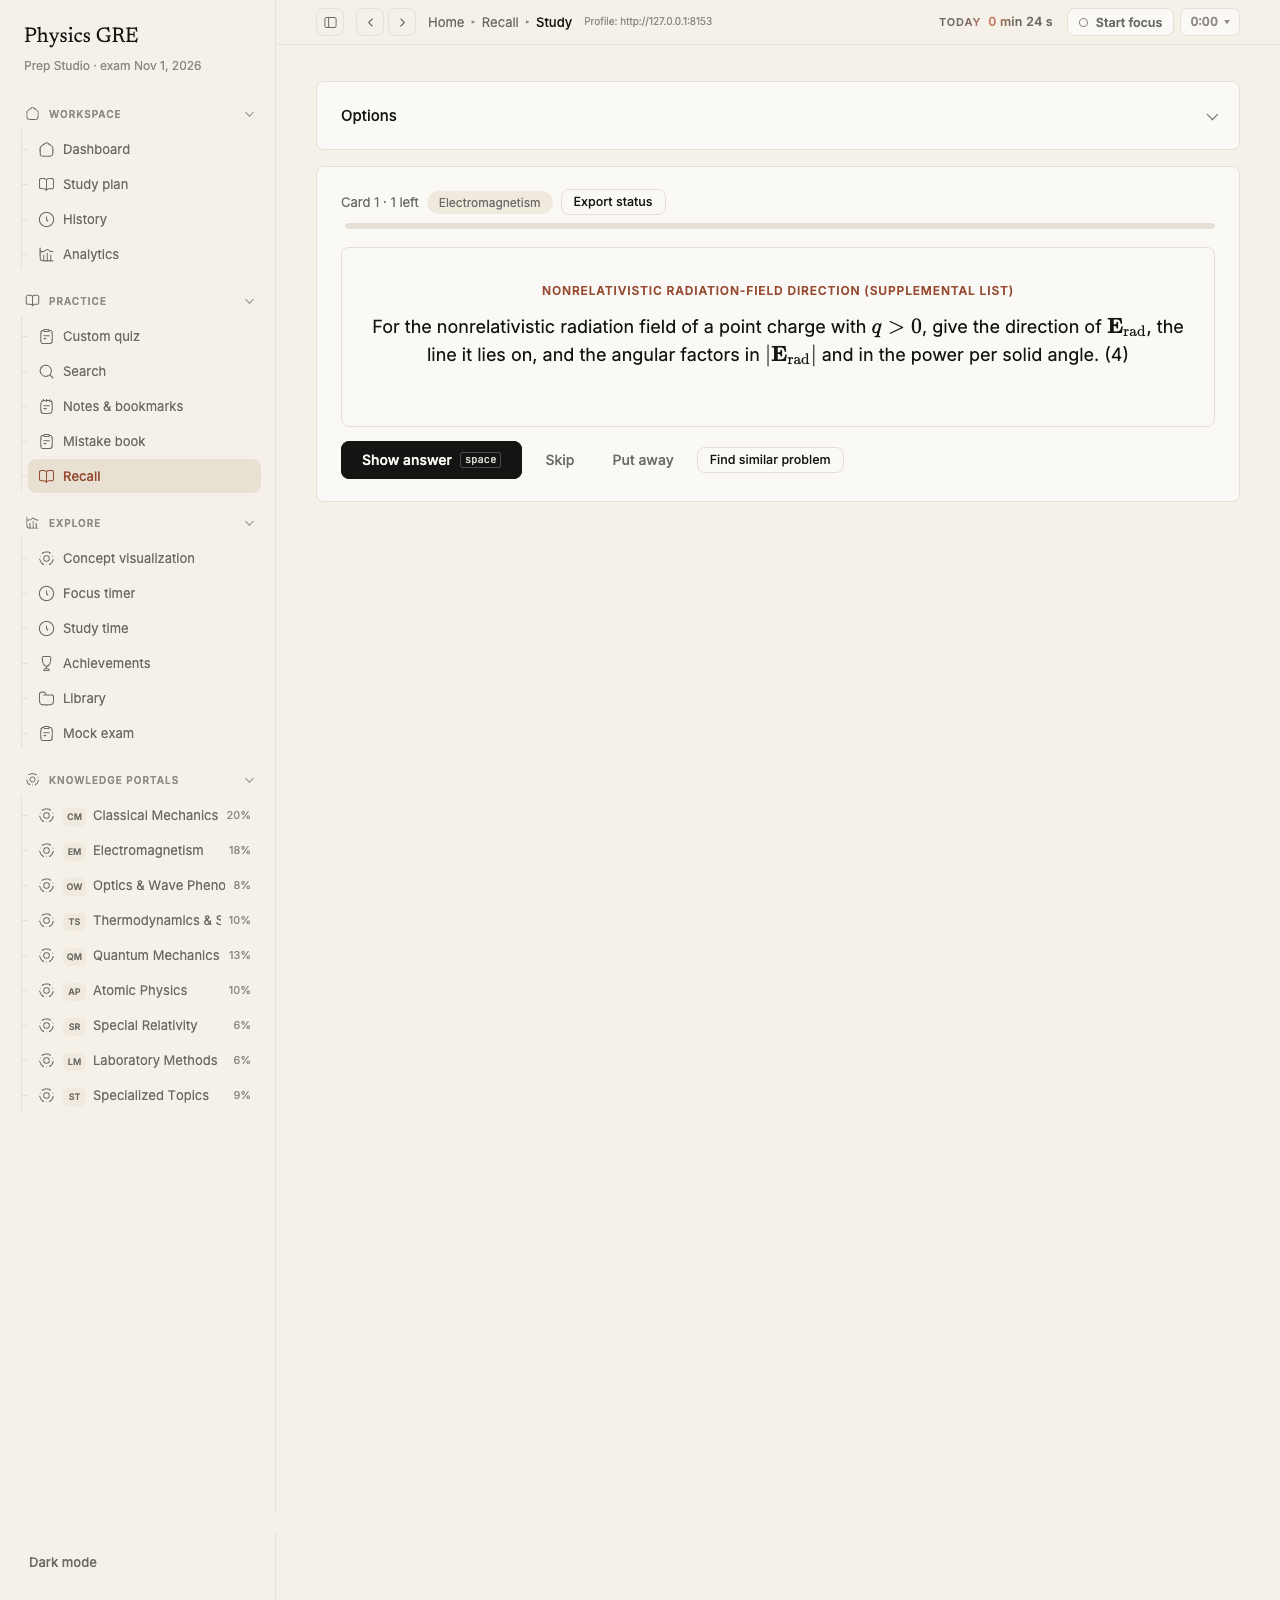
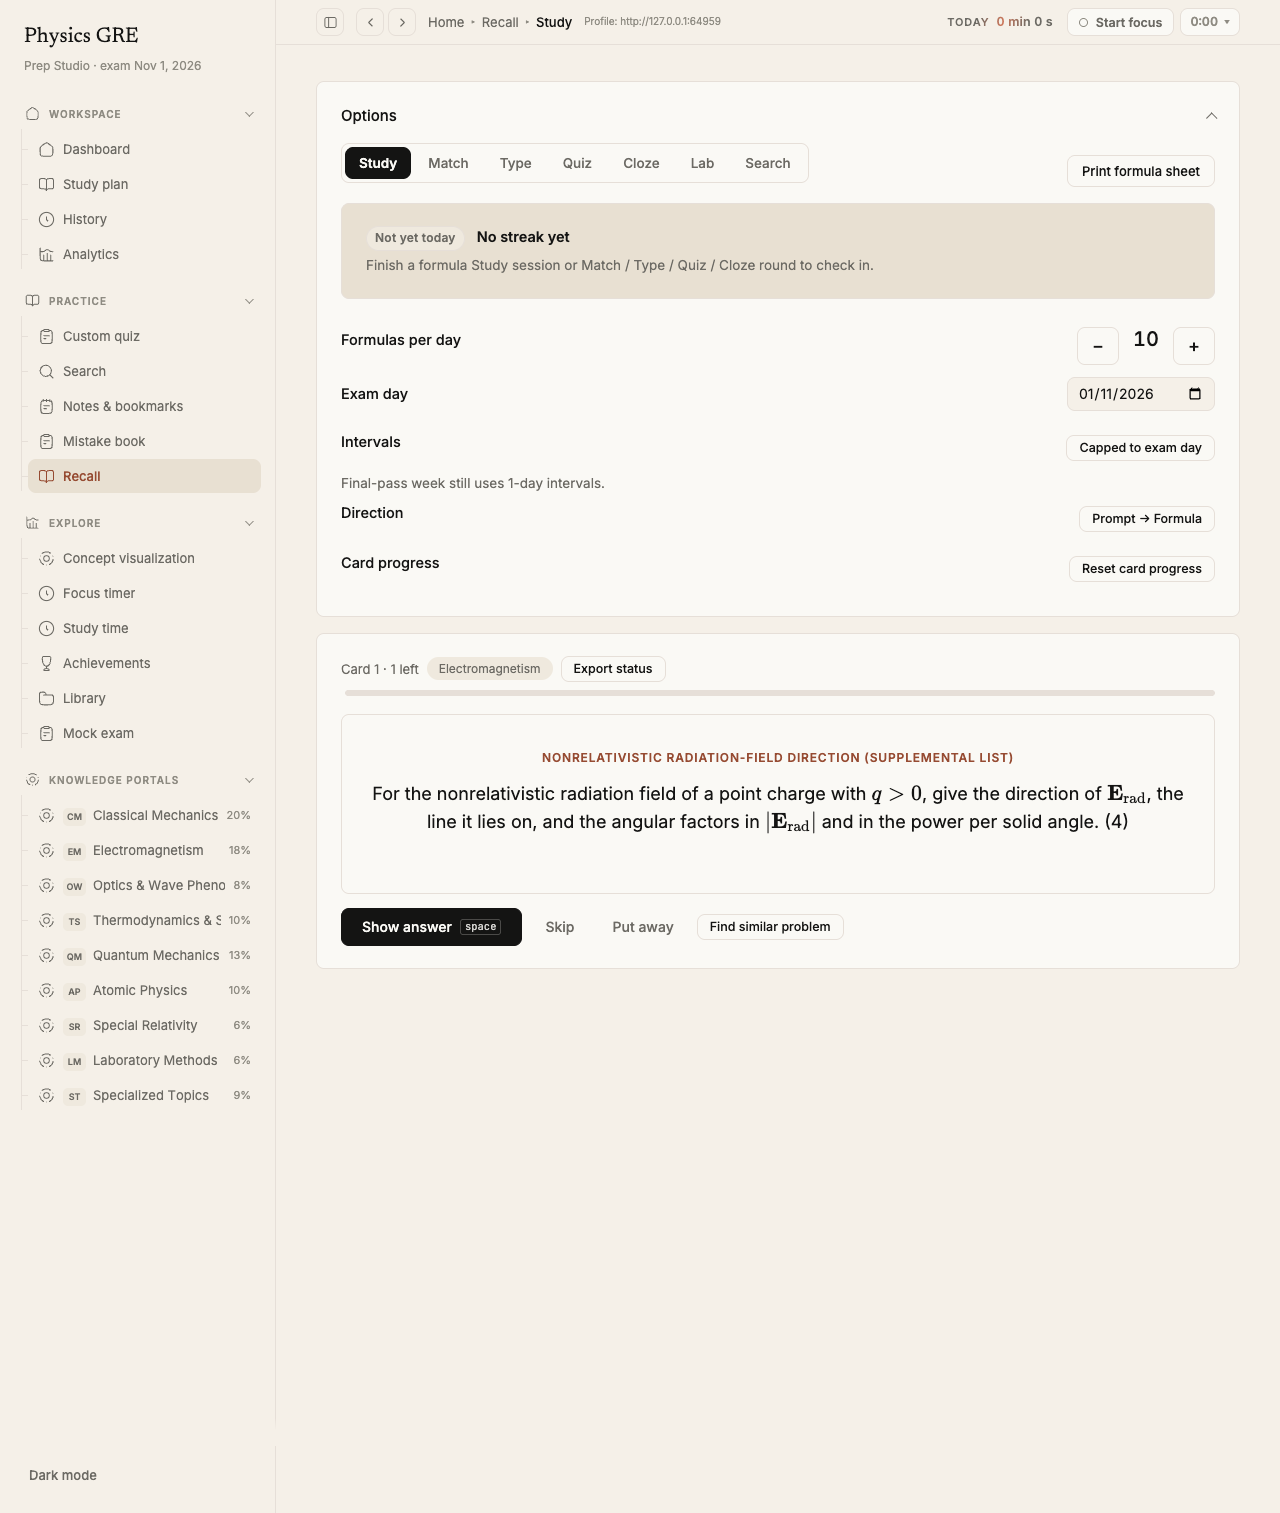
Polish the phrasing of the nonrelativistic radiation-field card.
Explain the radiation field with plain words, short sentences, and
intuitive physical order while preserving full mathematical rigor:
- State the anchor equality directly: [r-hat x (r-hat x a)]/R = -a_perp/R.
- Clarify that E_rad points opposite the sideways acceleration a_perp
  for q > 0, and reverses for a negative charge.
- Clarify that the field lies in the plane of the line of sight and
  acceleration, and is perpendicular to the line of sight.
- Note that transversality and coplanarity fix the line of E_rad, leaving
  both directions open until the triple product gives the direction.
- State both axial nulls along the acceleration axis (theta = 0 and 180 deg).
- Bump data-formulas cache token to 20261002d and update study screenshots.

diff --git a/js/data-formulas.js b/js/data-formulas.js
@@ -790,7 +790,7 @@ PGRE.FORMULAS = [
     tag: "Radiation field",
     name: "Nonrelativistic radiation-field direction (supplemental list)",
     front: "For the nonrelativistic radiation field of a point charge with $q > 0$, give the direction of $\\mathbf{E}_{\\mathrm{rad}}$, the line it lies on, and the angular factors in $|\\mathbf{E}_{\\mathrm{rad}}|$ and in the power per solid angle. (4)",
-    back: "<ul class=\"recall-list\"><li>Radiation zone and $v \\ll c$: $\\mathbf{E}_{\\mathrm{rad}}$ is parallel to $\\hat{\\mathbf{r}}\\times(\\hat{\\mathbf{r}}\\times\\mathbf{a})/R$, where $\\hat{\\mathbf{r}}$ points from the charge to the field point and $R$ is that distance. That triple product equals $-\\mathbf{a}_{\\perp}$. The coefficient of that triple product is positive for $q > 0$, so $\\mathbf{E}_{\\mathrm{rad}}$ points opposite the part of $\\mathbf{a}$ perpendicular to $\\hat{\\mathbf{r}}$.</li><li>$\\mathbf{E}_{\\mathrm{rad}}$ lies in the plane of $\\hat{\\mathbf{r}}$ and $\\mathbf{a}$. For a charge accelerating along a wire on the $x$-axis, seen from the $xy$-plane, that plane is the $xy$-plane, so the $z$ component is $0$.</li><li>$\\mathbf{E}_{\\mathrm{rad}}$ is perpendicular to $\\hat{\\mathbf{r}}$. When $\\mathbf{E}_{\\mathrm{rad}} \\ne 0$, this and the plane fix the line of $\\mathbf{E}_{\\mathrm{rad}}$ and leave both directions along that line open. The triple product picks the direction.</li><li>$|\\mathbf{E}_{\\mathrm{rad}}| \\propto \\sin\\theta$ and the power per solid angle $\\propto \\sin^2\\theta$. Here $\\theta$ is the angle from $\\mathbf{a}$. Both are zero along $\\mathbf{a}$, at $\\theta = 0$ and at $\\theta = 180^\\circ$, and both are largest at $\\theta = 90^\\circ$.</li></ul>",
+    back: "<ul class=\"recall-list\"><li>Radiation zone ($v \\ll c$): $\\mathbf{E}_{\\mathrm{rad}}$ is parallel to $\\hat{\\mathbf{r}}\\times(\\hat{\\mathbf{r}}\\times\\mathbf{a})/R = -\\mathbf{a}_{\\perp}/R$, where $\\hat{\\mathbf{r}}$ points from the charge to the field point and $R$ is that distance. For $q > 0$, $\\mathbf{E}_{\\mathrm{rad}}$ points opposite the sideways acceleration $\\mathbf{a}_{\\perp}$ (the part of $\\mathbf{a}$ perpendicular to $\\hat{\\mathbf{r}}$); a negative charge reverses it.</li><li>$\\mathbf{E}_{\\mathrm{rad}}$ lies in the plane of the line of sight $\\hat{\\mathbf{r}}$ and the acceleration $\\mathbf{a}$. For a charge accelerating along a wire on the $x$-axis, seen from the $xy$-plane, that plane is the $xy$-plane, so the $z$ component is $0$.</li><li>$\\mathbf{E}_{\\mathrm{rad}}$ is perpendicular to the line of sight $\\hat{\\mathbf{r}}$. When $\\mathbf{E}_{\\mathrm{rad}} \\ne 0$, this and the plane fix the line of $\\mathbf{E}_{\\mathrm{rad}}$, but leave both directions along that line open. The triple product gives the direction.</li><li>$|\\mathbf{E}_{\\mathrm{rad}}| \\propto \\sin\\theta$ and the power per solid angle $\\propto \\sin^2\\theta$, where $\\theta$ is the angle from $\\mathbf{a}$. Both are zero both ways along the acceleration axis ($\\theta = 0$ and $\\theta = 180^\\circ$), and both are largest at $\\theta = 90^\\circ$.</li></ul>",
     note: "Supplemental — not a numbered CPG equation. These statements are for the radiation field at $v \\ll c$. They are not the velocity field, and $\\sin^2\\theta$ is not the total radiated power."
   },
 ];

diff --git a/tools/test-public-formulas.js b/tools/test-public-formulas.js
@@ -217,8 +217,9 @@ assert(rad && String(rad.back).indexOf('<ul class="recall-list">') === 0 &&
 assert(rad && /\\hat\{\\mathbf\{r\}\}\\times\(\\hat\{\\mathbf\{r\}\}\\times\\mathbf\{a\}\)/.test(rad.back) &&
   /-\\mathbf\{a\}_\{\\perp\}/.test(rad.back),
   'the anchor is r-hat cross (r-hat cross a), equal to minus a_perp');
-assert(rad && /points opposite the part of \$\\mathbf\{a\}\$ perpendicular to \$\\hat\{\\mathbf\{r\}\}\$/.test(rad.back),
-  'for q > 0 the field points opposite a_perp');
+assert(rad && /points opposite the sideways acceleration \$\\mathbf\{a\}_\{\\perp\}\$ \(the part of \$\\mathbf\{a\}\$ perpendicular to \$\\hat\{\\mathbf\{r\}\}\$\)/.test(rad.back) &&
+  /negative charge reverses/.test(rad.back),
+  'for q > 0 the field points opposite a_perp, reversed for q < 0');
 assert(rad && /power per solid angle \$\\propto \\sin\^2\\theta\$/.test(rad.back) &&
   /180\^\\circ/.test(rad.back),
   'power per solid angle follows sin squared, with both axial nulls');

diff --git a/index.html b/index.html
@@ -130,7 +130,7 @@
   <!-- data -->
   <script src="js/data-topics.js?v=20260916f" defer></script>
   <script src="js/data-questions.js?v=20260916f" defer></script>
-  <script src="js/data-formulas.js?v=20261002c" defer></script>
+  <script src="js/data-formulas.js?v=20261002d" defer></script>
   <script src="js/data-achievements.js?v=20260929b" defer></script>
   <script src="js/data-plan.js?v=20260916f" defer></script>
   <script src="js/data-packs.js?v=20260916f" defer></script>
